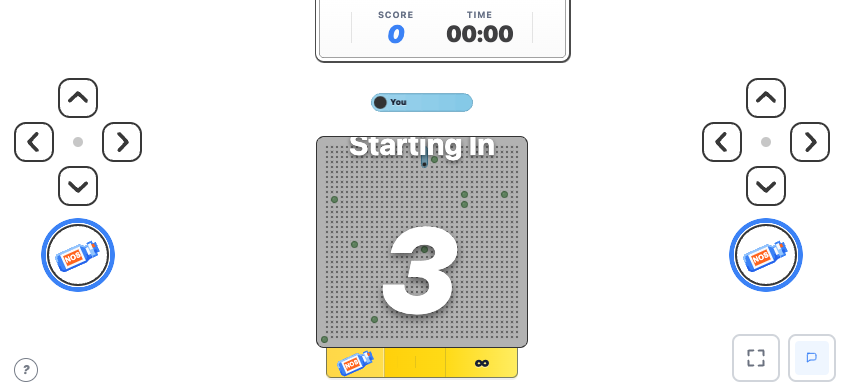
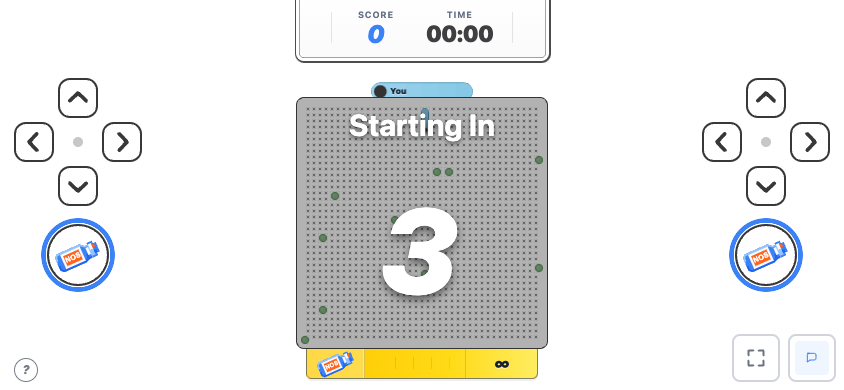
Compact the roster band on short landscape; align utility pair to the long edge
The roster's 19px snake pills sat in a 44px row with 12px margins — desktop
air that a 390px-tall phone cannot spare. Short touch landscape (<=560px)
now runs the band at 26px with 2px margins, shrinks the post-match Menu /
Score card buttons to fit, and calculateSizes budgets the same 30px total —
which crosses a cell-size step and gives the arena a visibly taller canvas
on landscape phones.

The fullscreen + chat rectangles now follow the screen's long edge instead
of always sitting side by side: a vertical stack up the left edge in
portrait, a horizontal row along the bottom in landscape.

diff --git a/client/web/components/GameArena.css b/client/web/components/GameArena.css
@@ -1824,8 +1824,9 @@
   }
 
   /* The cluster owns the bottom-right corner; the chat dock and fullscreen
-     toggle sit as a pair of rectangular buttons at the bottom left, above
-     the controls legend. */
+     toggle run as a vertical stack along the left (long) edge, above the
+     controls legend — mirroring how landscape lays the pair along its own
+     long edge at the bottom. */
   .game-arena-screen.is-touch-surface .home-lobby-chat {
     right: auto;
     left: max(12px, env(safe-area-inset-left, 0px));
@@ -1833,8 +1834,8 @@
   }
 
   .touch-fullscreen {
-    left: calc(max(12px, env(safe-area-inset-left, 0px)) + 56px);
-    bottom: calc(64px + env(safe-area-inset-bottom, 0px));
+    left: max(12px, env(safe-area-inset-left, 0px));
+    bottom: calc(120px + env(safe-area-inset-bottom, 0px));
   }
 
   /* The small-screen hint normally stretches to the chat trigger's old spot
@@ -1906,6 +1907,27 @@
 @media (orientation: landscape) and (max-height: 400px) {
   .game-arena-screen.is-touch-surface .game-controls-hint.is-touch .game-controls-hint__group.is-boost {
     display: none;
+  }
+}
+
+/* Short landscape: the roster band's 19px snake pills sit in a 44px row
+   built for desktop air. Compacting the row (and the post-match Menu /
+   Score card buttons living in it) hands the arena a taller canvas —
+   calculateSizes budgets the same 30px total. */
+@media (orientation: landscape) and (max-height: 560px) {
+  .game-arena-screen.is-touch-surface .game-arena-utility-anchor {
+    height: 26px;
+    flex: 0 0 26px;
+    margin-block: 2px;
+  }
+
+  .game-arena-screen.is-touch-surface .game-roster-band {
+    height: 26px;
+  }
+
+  .game-arena-screen.is-touch-surface .game-roster-band .game-shell-button {
+    min-height: 24px;
+    padding: 0 8px;
   }
 }
 

diff --git a/client/web/components/GameArena.tsx b/client/web/components/GameArena.tsx
@@ -562,7 +562,11 @@ export default function GameArena() {
         const scoreboardFootprint = Number.parseFloat(
           rootStyle.getPropertyValue('--game-scoreboard-footprint'),
         ) || 64;
-        const anchorFootprint = vw <= 760 ? 58 : 68;
+        // Short landscape compacts the roster band (GameArena.css) — its
+        // 19px snake pills never needed a 44px row, and on a phone the
+        // difference is a whole cell-size step for the arena.
+        const compactLandscape = isLandscapeViewport && vh <= 560;
+        const anchorFootprint = compactLandscape ? 30 : vw <= 760 ? 58 : 68;
         const touchBottomReserve = isLandscapeViewport
           ? 0
           : TOUCH_PORTRAIT_BOTTOM_RESERVE_PX + safeAreaInset('bottom');
@@ -571,7 +575,7 @@ export default function GameArena() {
           : 0;
         availableHeight = vh - scoreboardFootprint - anchorFootprint -
           boostIndicatorHeight - touchBottomReserve -
-          (isLandscapeViewport ? 22 : 16);
+          (isLandscapeViewport ? (compactLandscape ? 14 : 22) : 16);
         availableWidth = vw - 28 - touchSideReserve;
       } else {
         availableHeight = vh - hudHeight - boostIndicatorHeight - 58 - 32 - 10;
